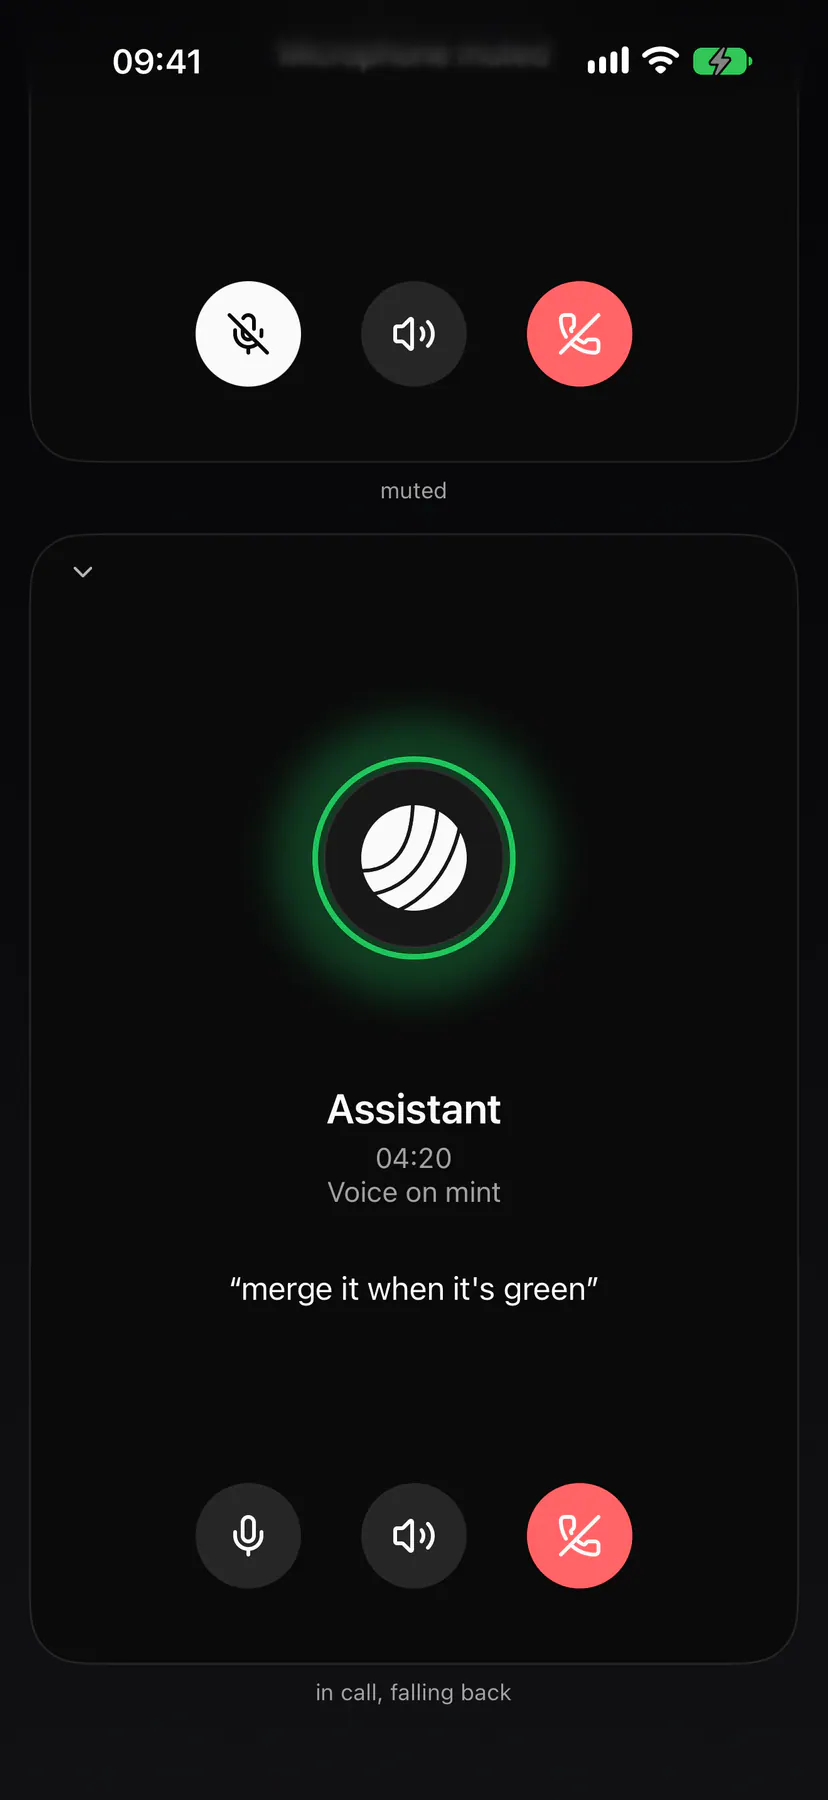
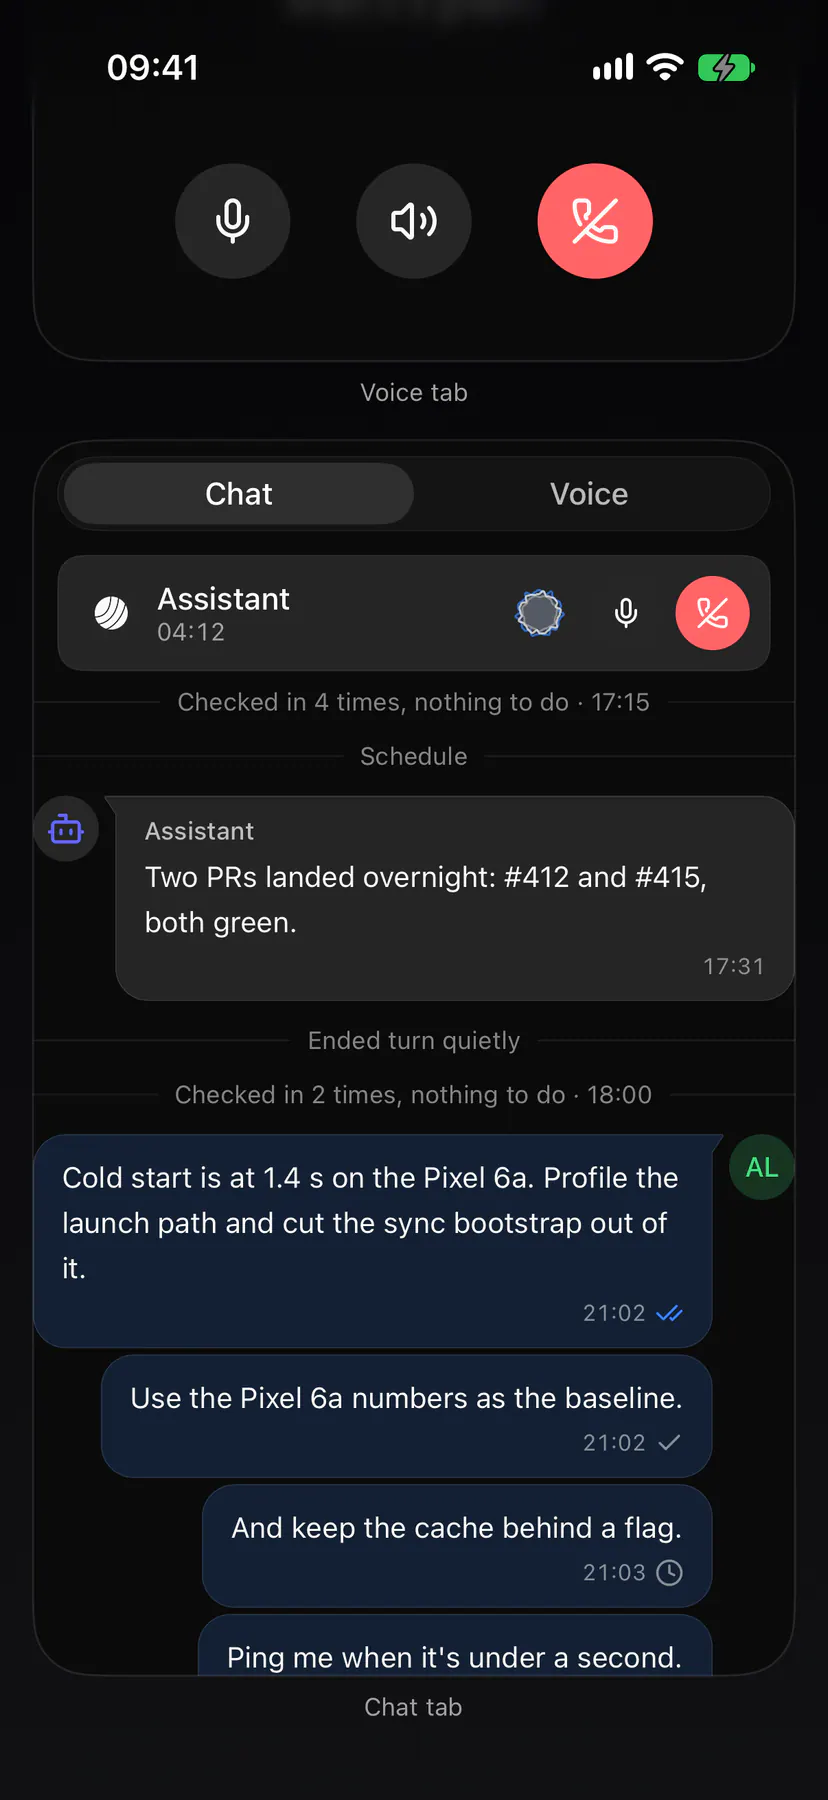
FEED-272: the iOS Chat tab specimen fills under its bar; sg_voice-call/ios re-shot

diff --git a/apps/ios/Exponential/UI/Components/ChatCardsScreen.swift b/apps/ios/Exponential/UI/Components/ChatCardsScreen.swift
@@ -946,9 +946,13 @@ private struct VoiceCallSpecimens: View {
                             level: specimen.level,
                             animated: false
                         )
-                        ChatTranscriptSpecimens()
-                            .frame(maxWidth: .infinity, maxHeight: .infinity, alignment: .top)
+                        // The transcript is taller than the frame: it fills
+                        // what is left under the bar, cut at the bottom.
+                        Color.clear
+                            .overlay(alignment: .top) { ChatTranscriptSpecimens() }
                             .clipped()
+                            // A still frame: the shot's scroll drags never press a bubble.
+                            .allowsHitTesting(false)
                     }
                 }
             }
